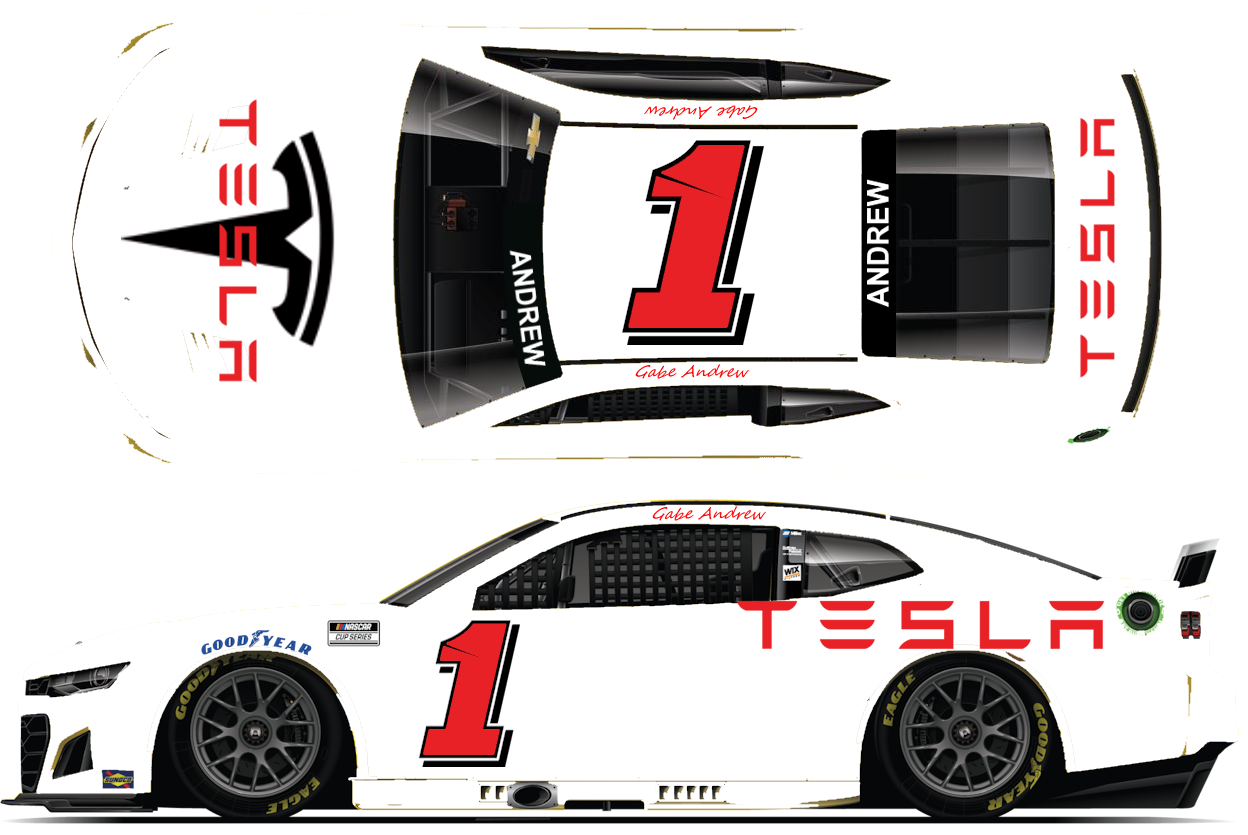
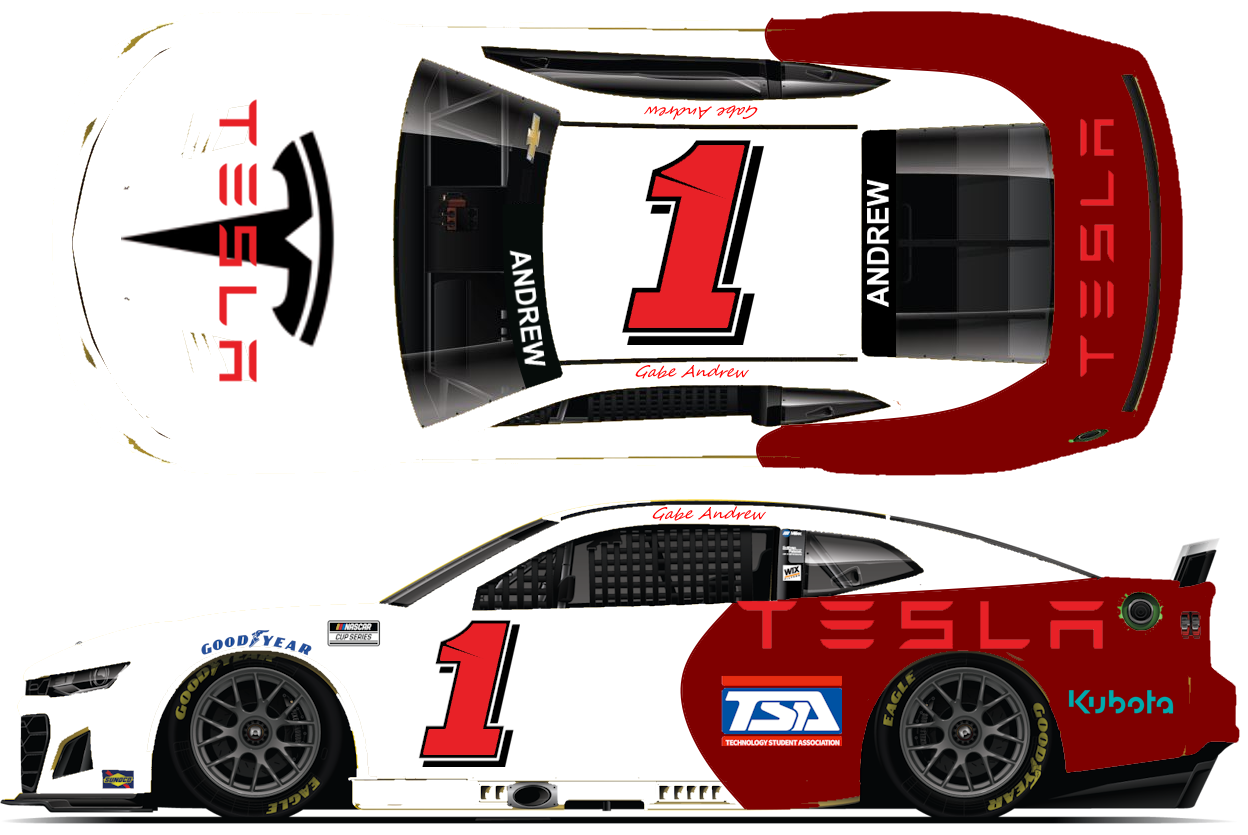
Added Daytona 500 stuff!

Changed region(s): [[0.5938, 0.0, 0.9688, 0.5916], [0.5312, 0.685, 1.0, 0.9964]]

diff --git a/races/daytona500.html b/races/daytona500.html
@@ -1,0 +1,92 @@
+<!DOCTYPE html>
+<html>
+<head>
+    <link rel="icon" type="image/x-icon" href="/alternate-universe-2025-nascar-cup-series/favicon.ico">
+<b><a href="/alternate-universe-2025-nascar-cup-series/teamsAndDrivers.html">-HOME-</a></b>
+<b><a href="/alternate-universe-2025-nascar-cup-series/pointStandings.html">-POINT STANDINGS-</a></b>
+<b><a href="/alternate-universe-2025-nascar-cup-series/index.html">-PAINT SCHEMES-</a></b>
+<b><a href="/alternate-universe-2025-nascar-cup-series/regularSeason.html">-HOW THE REGULAR SEASON WORKS-</a></b>
+<b><a href="/alternate-universe-2025-nascar-cup-series/playoffs.html">-HOW THE PLAYOFFS WORK-</a></b>
+<link rel="stylesheet" href="/alternate-universe-2025-nascar-cup-series/site.css" >
+<br>
+<title>Cook Out Clash at Bowman Gray - 2025 NASCAR Cup Series</title>
+</head>
+<body>
+
+<h1>Entry list</h1>
+<p>
+
+    </p>
+
+<h2>Practice Results</h2>
+<p>
+1-
+</p>
+
+<h2>1st Qualifying Round (O/E = Duel 1/Duel 2)</h2>
+<p>
+    1-Aaron Kirz O<br>
+    2-Jon Turner E<br>
+    3-Branson Cowan O<br>
+    4-Tosh Haws E<br>
+    5-Ella Deschamps O<br>
+    6-MJ Nelson E<br>
+    7-Preston Deschamps O<br>
+    8-Steve Sorenson E<br>
+    9-Trevan Haws O<br>
+    10-Gage Thiel E<br>
+    11-Gabe Andrew O<br>
+    12-Lyle Christensen E<br>
+    13-Wyatt Bench O<br>
+    14-Sam Turner E<br>
+    15-Cali Webb (i) O<br>
+    16-DC Trimble E<br>
+    17-Marian Hill (i) O<br>
+    18-Melinda Turner E<br>
+    19-Lucas Andreson O<br>
+    20-Michael Harris E<br>
+    21-Sophie Letterman (i) O<br>
+    22-Ty Nichols E<br>
+    23-Kaleb Dymock O<br>
+    24-Sam McDaniel E<br>
+    25-Dek Trimble O<br>
+    26-Dylan Thiel E<br>
+    27-Kasen Kelander O<br>
+    28-Melissa Nelson E<br>
+    29-Caeden Cataldo O<br>
+    30-Audrey Deschamps E<br>
+    31-Ava White O<br>
+    32-Max Turner E<br>
+    33-Gavin Thiel O<br>
+    34-Madeline Turner E<br>
+    35-Tommy Nielsen O<br>
+    36-Gavin Hawkins E<br>
+    37-Morgan Cloud O<br>
+    38-Celeste Siufanua E<br>
+    39-Izzy Deschamps O<br>
+    40-Savannah Thornton (i) E
+    
+</p>
+
+<h2>2nd Qualifying Round</h2>
+<p>
+    1-Tosh Haws (pole winner)<br>
+    2-Branson Cowan (front row spot)<br>
+    3-Ella Deschamps<br>
+    4-Gage Thiel<br>
+    5-Jon Turner<br>
+    6-MJ Nelson<br>
+    7-Trevan Haws<br>
+    8-Steve Sorenson<br>
+    9-Preston Deschamps<br>
+    10-Aaron Kirz
+</p>
+
+<style>
+    img {
+      border: 5px solid #555;
+    }
+        </style>
+
+</body>
+</html>

diff --git a/races/clash.html b/races/clash.html
@@ -177,48 +177,6 @@
     37-Aaron Kirz 1
 </p>
 
-
-<h2>Practice 3 Results (# = Heat race)</h2>
-<p>
-    1-Gavin Thiel 1<br>
-    2-Gavin Hawkins 2<br>
-    3-Sam McDaniel 3<br>
-    4-Gage Thiel 4<br>
-    5-DC Trimble 1<br>
-    6-Michael Harris 2<br>
-    7-Kasen Kelander 3<br>
-    8-Steve Sorenson 4<br>
-    9-Jon Turner 1<br>
-    10-Ella Deschamps 2<br>
-    11-Wyatt Bench 3<br>
-    12-Lyle Christensen 4<br>
-    13-Dylan Thiel 1<br>
-    14-Ty Nichols 2<br>
-    15-Brooklyn Loveless 3<br>
-    16-Dek Trimble 4<br>
-    17-Audrey Deschamps 1<br>
-    18-Lucas Andreson 2<br>
-    19-Branson Cowan 3<br>
-    20-Madeline Turner 4<br>
-    21-Sam Turner 1<br>
-    22-Tommy Nielsen 2<br>
-    23-Trevan Haws 3<br>
-    24-Gabe Andrew 4<br>
-    25-Celeste Siufanua 1<br>
-    26-Caeden Cataldo 2<br>
-    27-Melinda Turner 3<br>
-    28-Preston Deschamps 4<br>
-    29-Izzy Deschamps 1<br>
-    30-Morgan Cloud 2<br>
-    31-Melissa Nelson 3<br>
-    32-Tosh Haws 4<br>
-    33-MJ Nelson 1<br>
-    34-Kaleb Dymock 2<br>
-    35-Ava White 3<br>
-    36-Max Turner 4<br>
-    37-Aaron Kirz 1
-</p>
-
 <img src="h1.png" alt="Heat 1"><br>
 <img src="h2.png" alt="Heat 2"><br>
 <img src="h3.png" alt="Heat 3"style="width:1230px;"><br>

diff --git a/teamsAndDrivers.html b/teamsAndDrivers.html
@@ -15,7 +15,8 @@
 
   <h2>Races</h2>
 	<ul>
-  <li><a href="/alternate-universe-2025-nascar-cup-series/races/clash.html">Cook Out Clash (Exhibition)</a></li>
+  <li><a href="/alternate-universe-2025-nascar-cup-series/races/clash.html">E - Cook Out Clash</a></li>
+  <li><a href="/alternate-universe-2025-nascar-cup-series/races/clash.html">1 - Daytona 500</a></li>
 	</ul>
 	
 <h2>Chartered Teams</h2>

diff --git a/pointStandings.html b/pointStandings.html
@@ -44,7 +44,7 @@ tr:nth-child(odd) {
     <th>CLASH</th>
 	<th>D1</th>
 	<th>D2</th>
-    <th>DAY</th>
+    <th><a href="/alternate-universe-2025-nascar-cup-series/races/daytona500.html">DAY</a></th>
     <th>ATL</th>
     <th>COA</th>
     <th>PHO</th>
